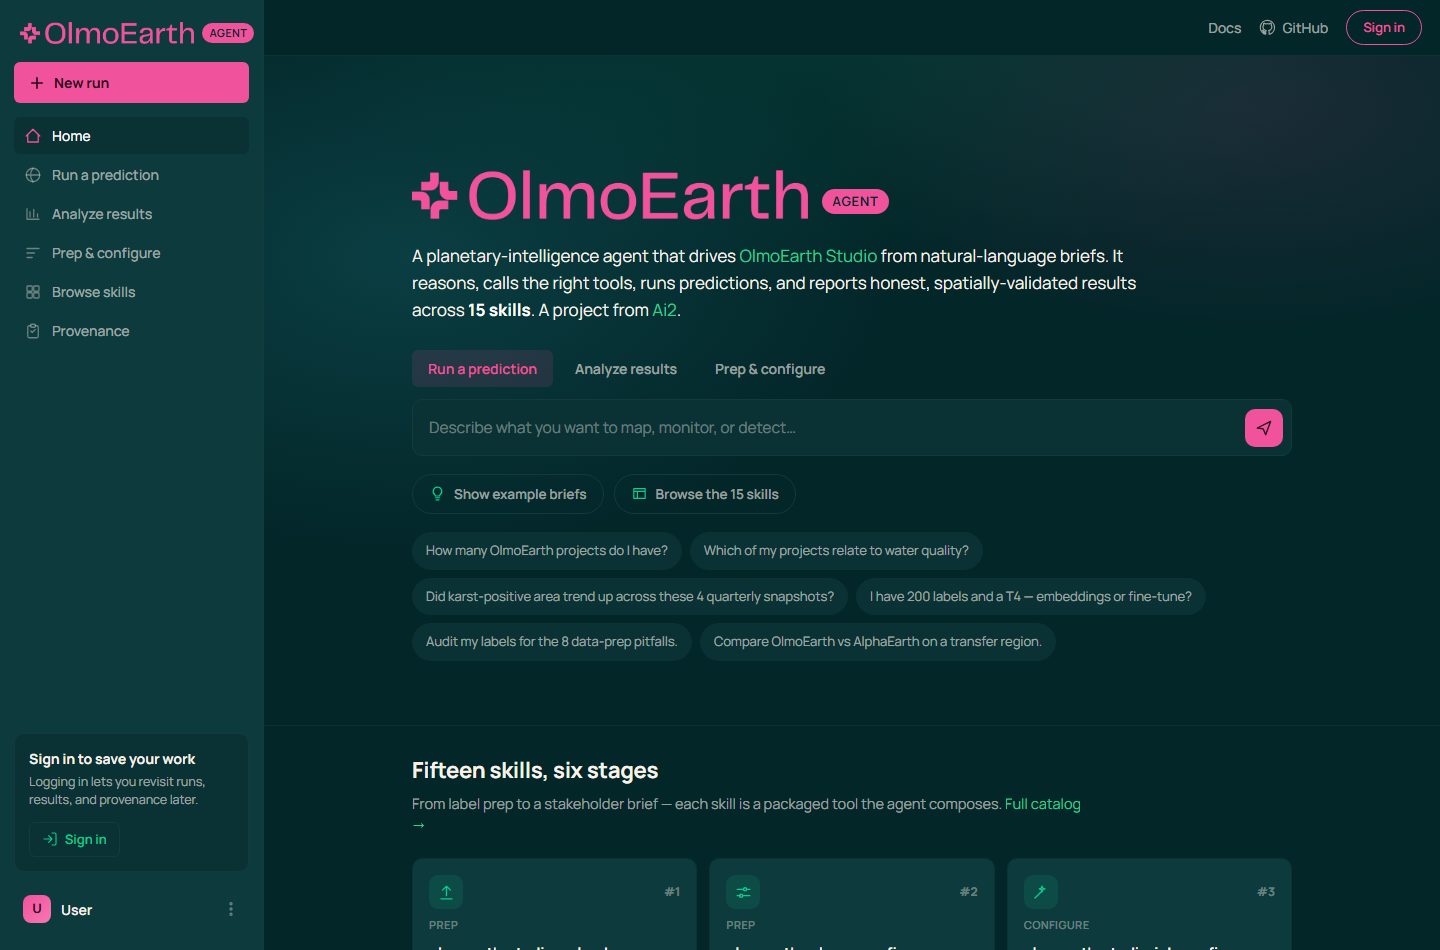
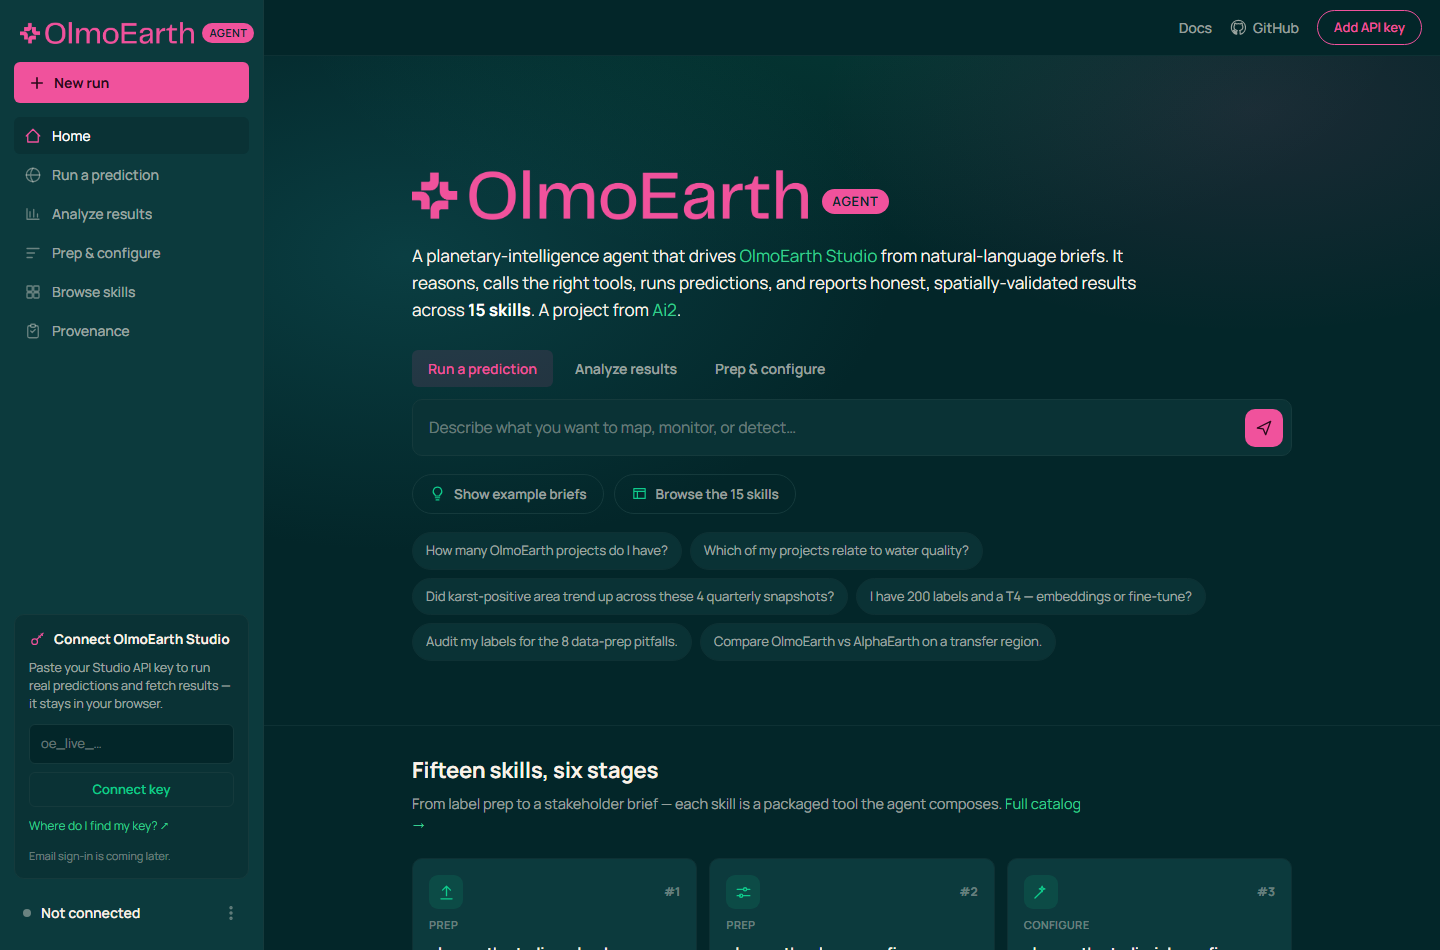
webui: bring-your-own-key account model (replace Asta-style "Sign in")
A user with a Studio assignment already has an OlmoEarth Studio API key, so the
sidebar now asks for *their* key ("Connect OlmoEarth Studio") instead of a
generic sign-in. The key is kept client-side (localStorage) and reflects a
Connected / Not-connected state (status dot + user chip). Top-bar button is now
"Add API key". A muted note flags that email sign-in is future work (handled
elsewhere). README documents the model.

Changed region(s): [[0.0, 0.6716, 0.1562, 0.9158], [0.8438, 0.0, 0.9688, 0.0611], [0.0, 0.9463, 0.0938, 0.9768]]

diff --git a/webui/index.html b/webui/index.html
@@ -37,18 +37,30 @@
 
       <div class="side-spacer"></div>
 
-      <div class="signin-card">
-        <div class="signin-title">Sign in to save your work</div>
-        <p class="signin-body">Logging in lets you revisit runs, results, and provenance later.</p>
-        <button class="btn-ghost" type="button">
-          <svg viewBox="0 0 24 24" class="ic"><path d="M15 3h4a2 2 0 012 2v14a2 2 0 01-2 2h-4"/><path d="M10 17l5-5-5-5M15 12H3"/></svg>
-          Sign in
-        </button>
+      <div class="key-card">
+        <div class="key-state" id="keyConnect">
+          <div class="key-head">
+            <svg viewBox="0 0 24 24" class="ic"><circle cx="8" cy="15" r="4"/><path d="M10.8 12.2L20 3M17 4l2 2M14 7l2 2"/></svg>
+            <span>Connect OlmoEarth Studio</span>
+          </div>
+          <p class="key-body">Paste your Studio API key to run real predictions and fetch results — it stays in your browser.</p>
+          <form class="key-form" id="keyForm" autocomplete="off">
+            <input type="password" id="keyInput" placeholder="oe_live_…" spellcheck="false" aria-label="OlmoEarth Studio API key" />
+            <button class="btn-ghost" type="submit">Connect key</button>
+          </form>
+          <a class="key-link" href="https://docs.olmoearth.allenai.org/authentication/" target="_blank" rel="noopener">Where do I find my key? ↗</a>
+        </div>
+        <div class="key-state" id="keyConnected" hidden>
+          <div class="key-head"><span class="status-dot is-on"></span><span>Studio connected</span></div>
+          <p class="key-body">Using <code id="keyMask">oe_live_••••</code>. Runs call your own Studio account.</p>
+          <button class="btn-ghost" id="keyDisconnect" type="button">Disconnect</button>
+        </div>
+        <p class="key-future">Email sign-in is coming later.</p>
       </div>
 
-      <div class="user-chip">
-        <span class="avatar">U</span>
-        <span class="user-name">User</span>
+      <div class="user-chip" id="userChip">
+        <span class="status-dot" id="statusDot"></span>
+        <span class="user-name" id="userStatus">Not connected</span>
         <svg viewBox="0 0 24 24" class="ic dots"><circle cx="12" cy="5" r="1.4"/><circle cx="12" cy="12" r="1.4"/><circle cx="12" cy="19" r="1.4"/></svg>
       </div>
     </aside>
@@ -65,7 +77,7 @@
             <svg viewBox="0 0 24 24" class="ic"><path d="M12 2a10 10 0 00-3.2 19.5c.5.1.7-.2.7-.5v-1.7c-2.8.6-3.4-1.3-3.4-1.3-.5-1.2-1.1-1.5-1.1-1.5-.9-.6.1-.6.1-.6 1 .1 1.5 1 1.5 1 .9 1.6 2.4 1.1 3 .8.1-.7.4-1.1.6-1.4-2.2-.300-4.6-1.1-4.6-4.9 0-1.1.4-2 1-2.7-.1-.3-.4-1.3.1-2.7 0 0 .8-.3 2.7 1a9.3 9.3 0 015 0c1.9-1.3 2.7-1 2.7-1 .5 1.4.2 2.4.1 2.7.6.7 1 1.6 1 2.7 0 3.8-2.4 4.6-4.6 4.9.4.3.7.9.7 1.9v2.8c0 .3.2.6.7.5A10 10 0 0012 2z"/></svg>
             GitHub
           </a>
-          <button class="btn-pill-accent" type="button">Sign in</button>
+          <button class="btn-pill-accent" id="topKeyBtn" type="button">Add API key</button>
         </div>
       </header>
 

diff --git a/webui/app.js b/webui/app.js
@@ -105,10 +105,50 @@ function wireMenu() {
   if (btn && sidebar) btn.addEventListener('click', () => sidebar.classList.toggle('open'));
 }
 
+/* Bring-your-own-key: a user with a Studio assignment already has an OlmoEarth
+   Studio API key, so they paste their own. Stored client-side only (localStorage).
+   Real email-based login is future work — handled elsewhere, not here. */
+function wireKey() {
+  const LS = 'oe_studio_key';
+  const connect = document.getElementById('keyConnect');
+  const connected = document.getElementById('keyConnected');
+  const form = document.getElementById('keyForm');
+  const input = document.getElementById('keyInput');
+  const mask = document.getElementById('keyMask');
+  const dot = document.getElementById('statusDot');
+  const status = document.getElementById('userStatus');
+  const maskKey = (k) => (k.length <= 6 ? k : k.slice(0, 6) + '••••' + k.slice(-2));
+  const get = () => { try { return localStorage.getItem(LS) || ''; } catch (e) { return ''; } };
+  const set = (v) => { try { v ? localStorage.setItem(LS, v) : localStorage.removeItem(LS); } catch (e) {} };
+  function render() {
+    const k = get(); const on = !!k;
+    if (connect) connect.hidden = on;
+    if (connected) connected.hidden = !on;
+    if (on && mask) mask.textContent = maskKey(k);
+    if (dot) dot.classList.toggle('is-on', on);
+    if (status) status.textContent = on ? 'Studio connected' : 'Not connected';
+  }
+  if (form) form.addEventListener('submit', (e) => {
+    e.preventDefault();
+    const v = (input.value || '').trim();
+    if (!v) return;
+    set(v); input.value = ''; render();
+  });
+  const dis = document.getElementById('keyDisconnect');
+  if (dis) dis.addEventListener('click', () => { set(''); render(); });
+  const top = document.getElementById('topKeyBtn');
+  if (top) top.addEventListener('click', () => {
+    document.getElementById('sidebar') && document.getElementById('sidebar').classList.add('open');
+    if (input) { input.focus(); input.scrollIntoView({ behavior: 'smooth', block: 'center' }); }
+  });
+  render();
+}
+
 document.addEventListener('DOMContentLoaded', () => {
   renderCards();
   wireTabs();
   wireExamples();
   wirePrompt();
   wireMenu();
+  wireKey();
 });

diff --git a/webui/styles.css b/webui/styles.css
@@ -87,12 +87,28 @@ a:hover { color: var(--text); }
 
 .side-spacer { flex: 1 1 auto; }
 
-.signin-card {
+.key-card {
   background: var(--bg-2); border: 1px solid var(--line);
   border-radius: var(--radius); padding: 14px;
 }
-.signin-title { font-weight: 650; font-size: 14px; margin-bottom: 4px; }
-.signin-body { margin: 0 0 12px; font-size: 12.5px; color: var(--text-dim); line-height: 1.45; }
+.key-head { display: flex; align-items: center; gap: 8px; font-weight: 650; font-size: 13.5px; }
+.key-head .ic { font-size: 17px; color: var(--pink); }
+.key-body { margin: 9px 0 11px; font-size: 12.5px; color: var(--text-dim); line-height: 1.45; }
+.key-body code { font-family: var(--mono); font-size: 11.5px; color: var(--mint-soft); }
+.key-form { display: flex; flex-direction: column; gap: 8px; }
+.key-form input {
+  width: 100%; background: var(--bg); border: 1px solid var(--line); color: var(--text);
+  font: inherit; font-size: 13px; letter-spacing: .02em; padding: 9px 11px;
+  border-radius: var(--radius-sm); outline: none; transition: border-color .15s, box-shadow .15s;
+}
+.key-form input::placeholder { color: var(--text-faint); letter-spacing: normal; }
+.key-form input:focus { border-color: var(--pink); box-shadow: 0 0 0 3px rgba(240,82,156,.14); }
+.key-form .btn-ghost { justify-content: center; }
+.key-link { display: inline-block; margin-top: 10px; font-size: 12px; color: var(--mint-link); }
+.key-link:hover { color: var(--text); }
+.key-future { margin: 11px 0 0; font-size: 11px; color: var(--text-faint); }
+.status-dot { width: 8px; height: 8px; border-radius: 50%; background: var(--text-faint); flex: none; }
+.status-dot.is-on { background: var(--mint); box-shadow: 0 0 0 3px rgba(15,203,140,.18); }
 .btn-ghost {
   display: inline-flex; align-items: center; gap: 7px;
   background: transparent; color: var(--mint); border: 1px solid var(--line);

diff --git a/webui/README.md b/webui/README.md
@@ -42,6 +42,14 @@ unmistakably OlmoEarth. See [`DESIGN_NOTES.md`](DESIGN_NOTES.md).
 Responsive: the sidebar collapses to a hamburger and the card grid reflows to a
 single column below 880 px.
 
+## Account (bring your own key)
+
+There's no login to build — a user with a Studio assignment **already has an
+OlmoEarth Studio API key** (Studio → profile → API Keys). They paste it into the
+sidebar ("Connect OlmoEarth Studio"); it's kept **client-side** (localStorage)
+and used to call *their own* Studio account. Email-based sign-in is planned for
+later and will be handled outside this UI — out of scope for now.
+
 ## Status & next step
 
 This is the **visual shell**. To make it live, point the prompt form at the
